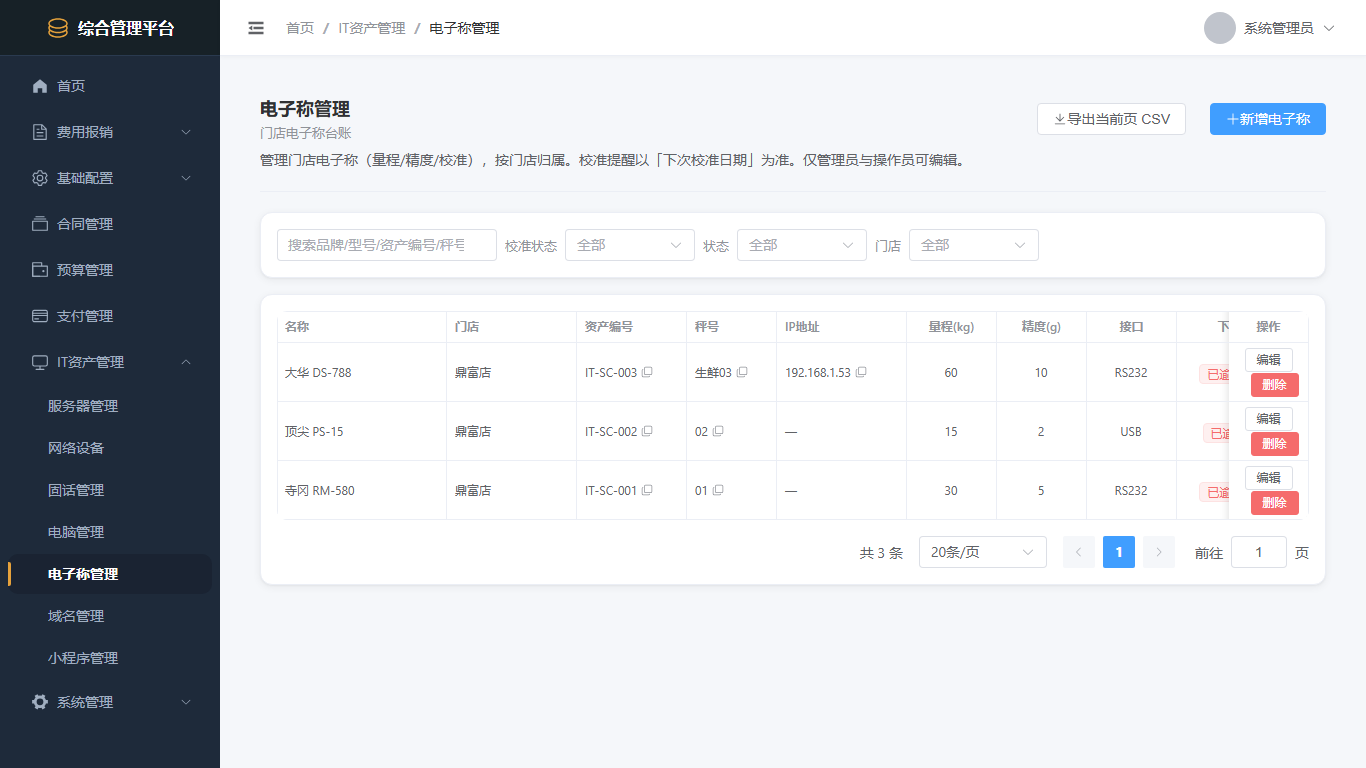
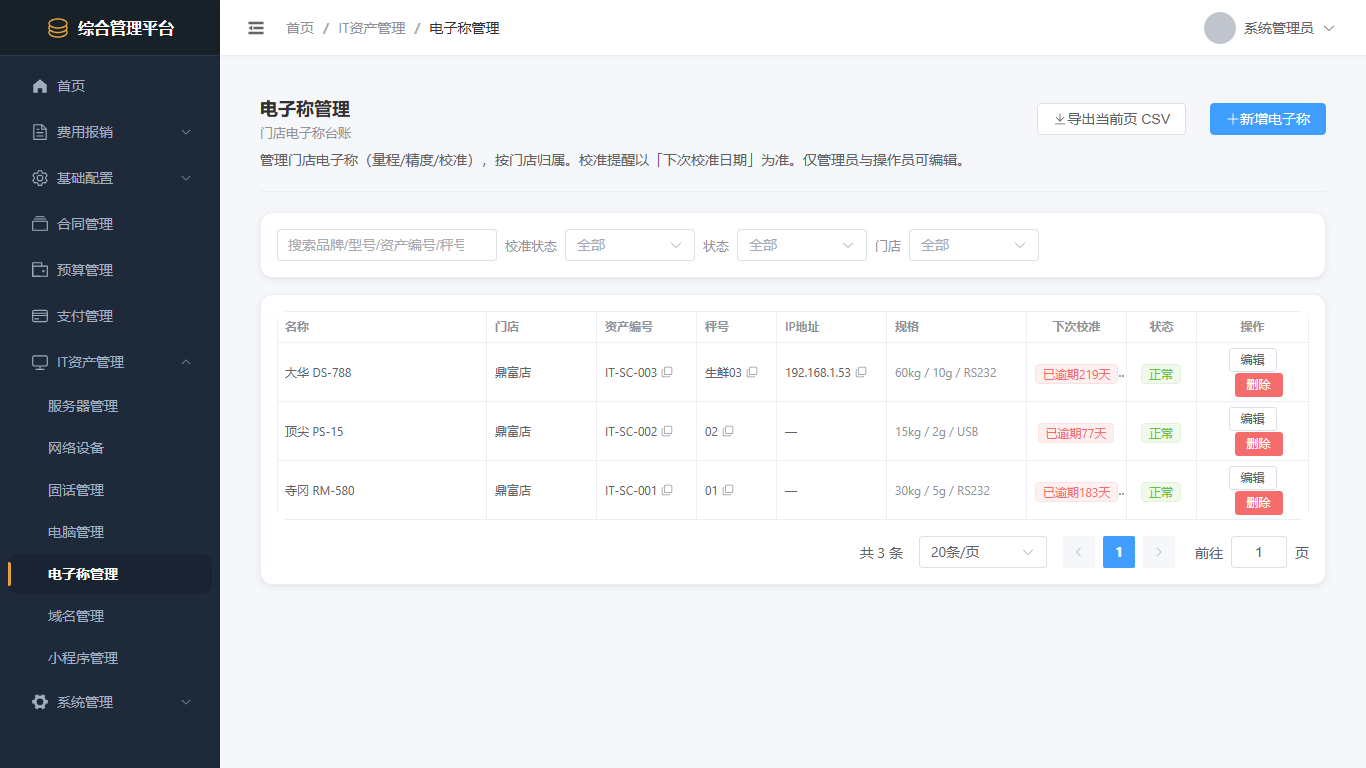
审计修复：1366表格列收敛+删除危险脚本+scaleNo长度校验
P1-1: 台账列收敛为1366可完整阅读的紧凑列
  名称/门店/资产编号/秤号/IP地址/规格/下次校准/状态/操作
  规格列合并量程/精度/接口，安装位置/序列号/品牌/型号保留在Drawer和CSV
  新增列可见性断言，确保下次校准/状态不被操作列遮挡

P1-2: 删除已提交的危险数据准备脚本
  git rm web/scripts/prepare-scale-data.cjs（硬编码admin/固定ID）

P1-3: 真实MySQL唯一性验证已通过
  同门店相同秤号→409，不同门店相同秤号→允许
  验证数据已清理，临时脚本未提交

P2: scaleNo最长50字符校验+单测
  超过50字符返回400，避免数据库长度错误变为500

diff --git a/web/app/pages/it/scales.vue b/web/app/pages/it/scales.vue
@@ -53,6 +53,9 @@
           <el-tag :type="calibrationTagType(row as ScaleItem)" size="small">{{ getCalibrationInfo((row as ScaleItem).nextCalibrationDate, (row as ScaleItem).status).label }}</el-tag>
         </template>
         <template #storeName="{ row }">{{ row.storeName || '-' }}</template>
+        <template #specs="{ row }">
+          <span class="specs-cell">{{ formatSpecs(row as ScaleItem) }}</span>
+        </template>
       </AssetTable>
     </div>
 
@@ -154,17 +157,14 @@ function handlePageChange(p: number, s: number) {
 }
 
 const columns: AssetColumn<ScaleItem>[] = [
-  { virtual: true, key: 'name', label: '名称', minWidth: 170, slot: 'name' },
-  { key: 'storeName', label: '门店', width: 130, slot: 'storeName' },
-  { key: 'assetNo', label: '资产编号', width: 110, copyable: true },
-  { key: 'scaleNo', label: '秤号', width: 90, copyable: true },
-  { key: 'ipAddress', label: 'IP地址', width: 130, copyable: true },
-  { key: 'capacityKg', label: '量程(kg)', width: 90, align: 'center' as const },
-  { key: 'precisionG', label: '精度(g)', width: 90, align: 'center' as const },
-  { key: 'interface', label: '接口', width: 90, align: 'center' as const },
-  { virtual: true, key: 'nextCalibrationDate', label: '下次校准', width: 130, align: 'center' as const, slot: 'nextCalibrationDate' },
-  { key: 'installLocation', label: '位置', minWidth: 120, copyable: true },
-  { key: 'status', label: '状态', width: 80, align: 'center' as const, type: 'status' as const },
+  { virtual: true, key: 'name', label: '名称', minWidth: 150, slot: 'name' },
+  { key: 'storeName', label: '门店', width: 110, slot: 'storeName' },
+  { key: 'assetNo', label: '资产编号', width: 100, copyable: true },
+  { key: 'scaleNo', label: '秤号', width: 80, copyable: true },
+  { key: 'ipAddress', label: 'IP地址', width: 110, copyable: true },
+  { virtual: true, key: 'specs', label: '规格', width: 140, slot: 'specs' },
+  { virtual: true, key: 'nextCalibrationDate', label: '下次校准', width: 100, align: 'center' as const, slot: 'nextCalibrationDate' },
+  { key: 'status', label: '状态', width: 70, align: 'center' as const, type: 'status' as const },
 ]
 
 const dialogVisible = ref(false)
@@ -201,6 +201,14 @@ function calibrationTagType(row: ScaleItem): 'danger' | 'warning' | 'info' | 'su
 function formatName(row: ScaleItem): string {
   const parts = [row.brand, row.model].filter(Boolean)
   return parts.length ? parts.join(' ') : (row.assetNo || `电子称#${row.id}`)
+}
+
+function formatSpecs(row: ScaleItem): string {
+  const parts: string[] = []
+  if (row.capacityKg != null) parts.push(`${row.capacityKg}kg`)
+  if (row.precisionG != null) parts.push(`${row.precisionG}g`)
+  if (row.interface) parts.push(row.interface)
+  return parts.length ? parts.join(' / ') : '—'
 }
 
 function openAdd() {
@@ -329,4 +337,5 @@ function handleExportCsv() {
 .drawer-field { display: inline-flex; align-items: center; gap: 4px; }
 .drawer-copy-btn { padding: 0; min-height: auto; color: var(--text-secondary); }
 .drawer-copy-btn:hover { color: var(--color-primary); }
+.specs-cell { color: var(--text-secondary); font-size: var(--font-size-mini); }
 </style>

diff --git a/web/server/utils/scale-dto.ts b/web/server/utils/scale-dto.ts
@@ -18,7 +18,7 @@ export const SCALE_FIELDS = [
 ] as const
 
 /** 可空文本字段 */
-const NULLABLE_TEXT_FIELDS = new Set(['assetNo', 'brand', 'model', 'serialNo', 'scaleNo', 'installLocation'])
+const NULLABLE_TEXT_FIELDS = new Set(['assetNo', 'brand', 'model', 'serialNo', 'installLocation'])
 
 /** 合法 IPv4 校验（四段 0-255，不接收前置零如 001） */
 function isValidIPv4(s: string): boolean {
@@ -93,6 +93,14 @@ export function validateScaleFields(body: Record<string, unknown>): ScaleFieldVa
         data[key] = s
         break
       }
+      case 'scaleNo': {
+        const s = normalizeNullableText(value)
+        if (s === INVALID_VALUE) { errors.push('scaleNo 必须是字符串'); break }
+        if (s === null) { data[key] = null; break }
+        if (s.length > 50) { errors.push('scaleNo 最长 50 字符'); break }
+        data[key] = s
+        break
+      }
       case 'ipAddress': {
         const s = normalizeNullableText(value)
         if (s === INVALID_VALUE) { errors.push('ipAddress 必须是字符串'); break }
@@ -152,8 +160,16 @@ export function mapScaleApiError(error: unknown): { statusCode: number; message:
   const code = (error as { code?: string })?.code
   if (code === 'P2002') {
     const target = (error as { meta?: { target?: string[] } })?.meta?.target
-    if (target?.includes('scaleNo')) {
+    // Prisma 复合唯一约束可能以 target 数组或索引名出现在 message 中
+    const errMsg = String((error as { message?: string })?.message || '')
+    if (target?.includes('scaleNo') || errMsg.includes('scaleNo')) {
       return { statusCode: 409, message: '该门店已存在相同秤号' }
+    }
+    if (target?.includes('assetNo') || errMsg.includes('assetNo')) {
+      return { statusCode: 409, message: '资产编号与已有记录重复' }
+    }
+    if (target?.includes('serialNo') || errMsg.includes('serialNo')) {
+      return { statusCode: 409, message: '序列号与已有记录重复' }
     }
     return { statusCode: 409, message: '资产编号/序列号与已有记录重复' }
   }

diff --git a/web/server/utils/scale-dto.spec.ts b/web/server/utils/scale-dto.spec.ts
@@ -89,6 +89,13 @@ describe('scaleNo 校验', () => {
     expect(validateScaleFields({ scaleNo: [1, 2] }).errors.length).toBeGreaterThan(0)
     expect(validateScaleFields({ scaleNo: true }).errors.length).toBeGreaterThan(0)
   })
+
+  it('超过 50 字符 → 400（避免数据库长度错误变为 500）', () => {
+    const long = 'A'.repeat(51)
+    expect(validateScaleFields({ scaleNo: long }).errors.length).toBeGreaterThan(0)
+    // 恰好 50 字符通过
+    expect(validateScaleFields({ scaleNo: 'B'.repeat(50) }).errors).toEqual([])
+  })
 })
 
 describe('ipAddress 校验', () => {
